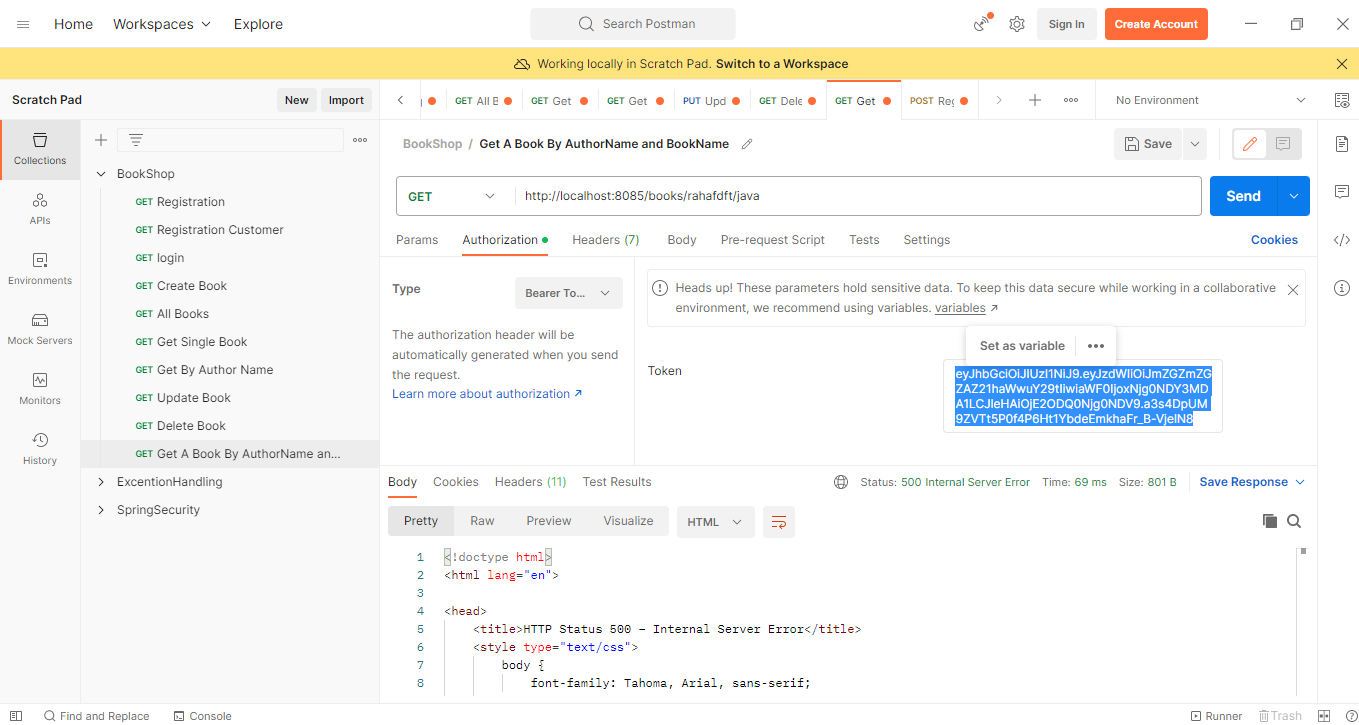
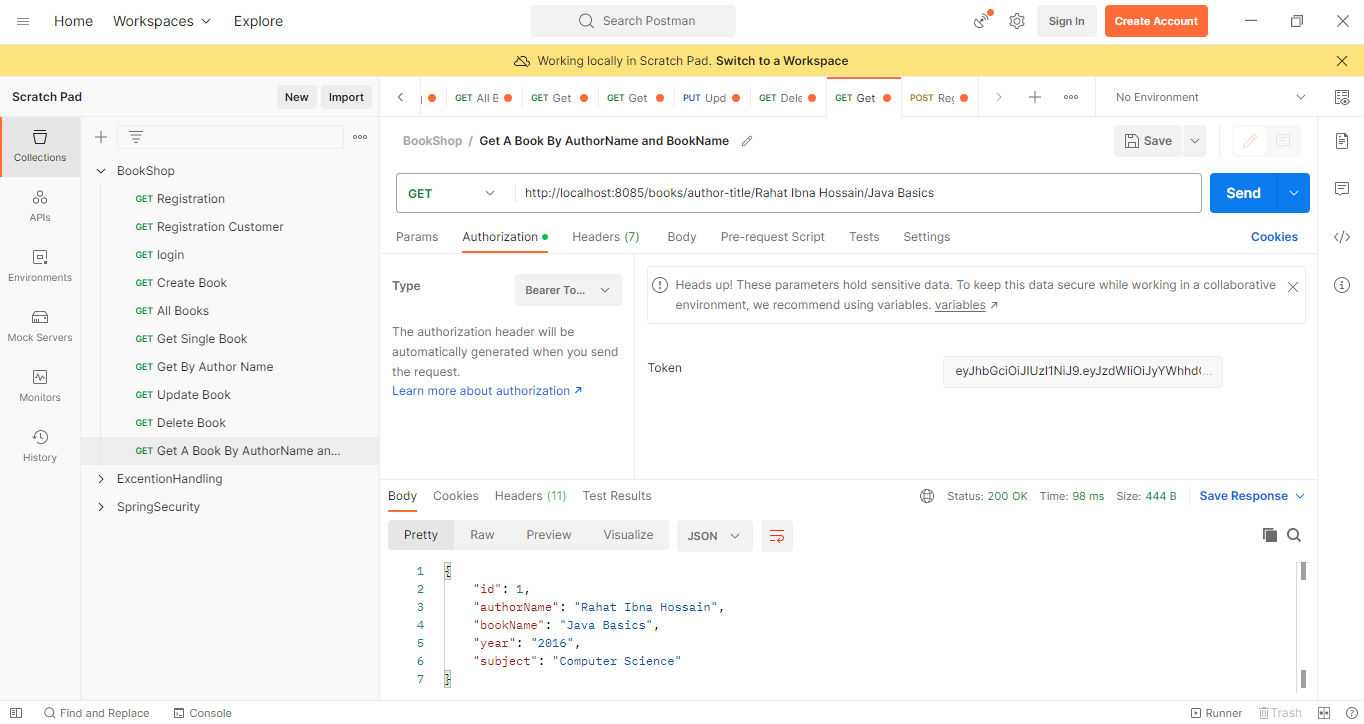
Done the task

diff --git a/src/main/java/com/rahat/onlinelibrary/service/impl/UserServiceImpl.java b/src/main/java/com/rahat/onlinelibrary/service/impl/UserServiceImpl.java
@@ -46,11 +46,8 @@ public class UserServiceImpl implements UserService {
                 .firstName(requestModel.getFirstName())
                 .lastName(requestModel.getLastName())
                 .password(passwordEncoder.encode(requestModel.getPassword()))
-//                .roles(Objects.equals(requestModel.getRole(), "ADMIN") ?(Role.ADMIN,Role.CUSTOMER):Role.CUSTOMER)
                 .role1(Objects.equals(requestModel.getRoles().get(0), "ADMIN") ? Role.ADMIN : Role.CUSTOMER)
-                .role2(requestModel.getRoles().size()==2?(
-
-                        Objects.equals(requestModel.getRoles().get(1), "ADMIN") ? Role.ADMIN : Role.CUSTOMER):(Objects.equals(requestModel.getRoles().get(0), "ADMIN") ? Role.ADMIN : Role.CUSTOMER))
+                .role2(requestModel.getRoles().size()==2?(Objects.equals(requestModel.getRoles().get(1), "ADMIN") ? Role.ADMIN : Role.CUSTOMER):(Objects.equals(requestModel.getRoles().get(0), "ADMIN") ? Role.ADMIN : Role.CUSTOMER))
                 .build();
         userRepository.save(userEntity);
         AuthenticationResponse authRes = AuthenticationResponse.builder()
@@ -76,9 +73,9 @@ public class UserServiceImpl implements UserService {
         }
 
 
-        var user = userRepository.findByEmail(authenticationRequest.getEmail());
+        UserEntity user = userRepository.findByEmail(authenticationRequest.getEmail());
 
-        var jwtToken = jwtService.generateToken(user);
+        String jwtToken = jwtService.generateToken(user);
         return AuthenticationResponse.builder()
                 .token(jwtToken)
                 .build();

diff --git a/src/main/java/com/rahat/onlinelibrary/config/SecurityConfig.java b/src/main/java/com/rahat/onlinelibrary/config/SecurityConfig.java
@@ -27,9 +27,9 @@ public class SecurityConfig {
                 .authorizeHttpRequests()
                 .requestMatchers("/user/register","user/login")
                 .permitAll()
-                .requestMatchers("/books/author/**","/books/id/**","/books/all")
+                .requestMatchers("/books/author/**","/books/id/**","/books/all","/books/author-title/**")
                 .hasAnyAuthority("ADMIN","CUSTOMER")
-                .requestMatchers("/books/create","/books/update/**","/books/delete/**","/books/**")
+                .requestMatchers("/books/create","/books/update/**","/books/delete/**")
                 .hasAuthority("ADMIN")
                 .anyRequest()
                 .authenticated()

diff --git a/src/main/java/com/rahat/onlinelibrary/utils/JwtService.java b/src/main/java/com/rahat/onlinelibrary/utils/JwtService.java
@@ -37,7 +37,7 @@ public class JwtService {
                 .builder().setClaims(extraClaims)
                 .setSubject(userDetails.getUsername())
                 .setIssuedAt(new Date(System.currentTimeMillis()))
-                .setExpiration(new Date(System.currentTimeMillis()+1000*60*24))
+                .setExpiration(new Date(System.currentTimeMillis()+1000*60*60*24))
                 .signWith(getSignInKey(), SignatureAlgorithm.HS256)
                 .compact();
     }

diff --git a/src/main/java/com/rahat/onlinelibrary/controllers/BookController.java b/src/main/java/com/rahat/onlinelibrary/controllers/BookController.java
@@ -48,7 +48,7 @@ public class BookController {
     public void deleteBook(@PathVariable Long bookId){
          bookService.deleteBook(bookId);
     }
-    @GetMapping("/{authorName}/{bookName}")
+    @GetMapping("/author-title/{authorName}/{bookName}")
     public BookEntity findByAuthorNameAndBookName(@PathVariable String authorName, @PathVariable String bookName){
       return   bookService.findByAuthorNameAndBookName(authorName,bookName);
     }

diff --git a/src/main/java/com/rahat/onlinelibrary/service/impl/BookServiceImpl.java b/src/main/java/com/rahat/onlinelibrary/service/impl/BookServiceImpl.java
@@ -27,7 +27,6 @@ import java.util.Optional;
 public class BookServiceImpl implements BookService {
 
     private final BookRepository bookRepository;
-    private final JwtService jwtService;
 
 
     @Override

diff --git a/README.md b/README.md
@@ -83,7 +83,7 @@
 
 <img src="screenshots\ss20.PNG"  />
 
-## Getting Books By Author Name (Matching Prefix)
+## Getting Books By Author Name (Returns on any kind of Matching)
 <img src="screenshots\ss21.PNG"  />
 
 ## When There Are No Books Containg This Author Name
